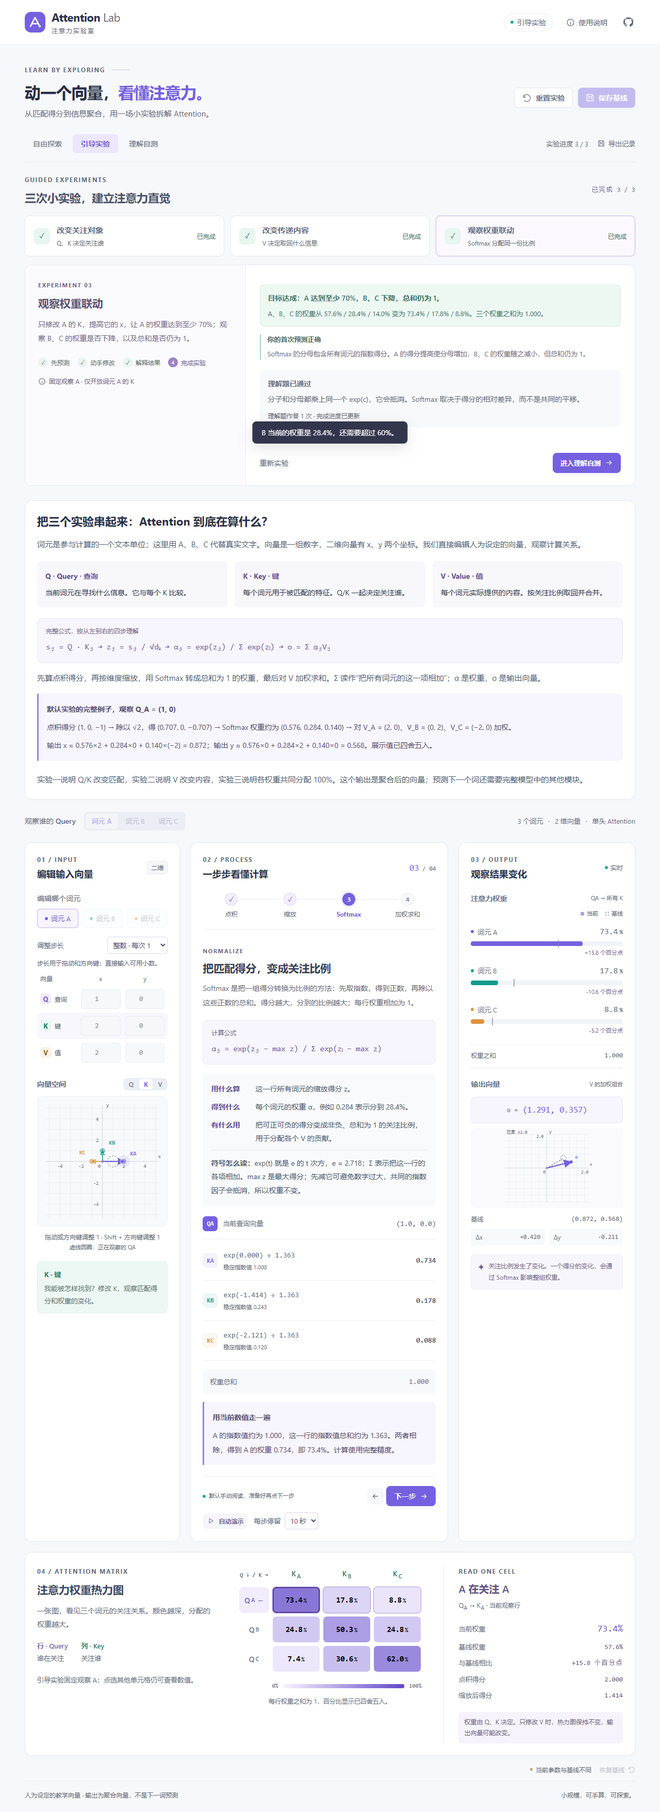
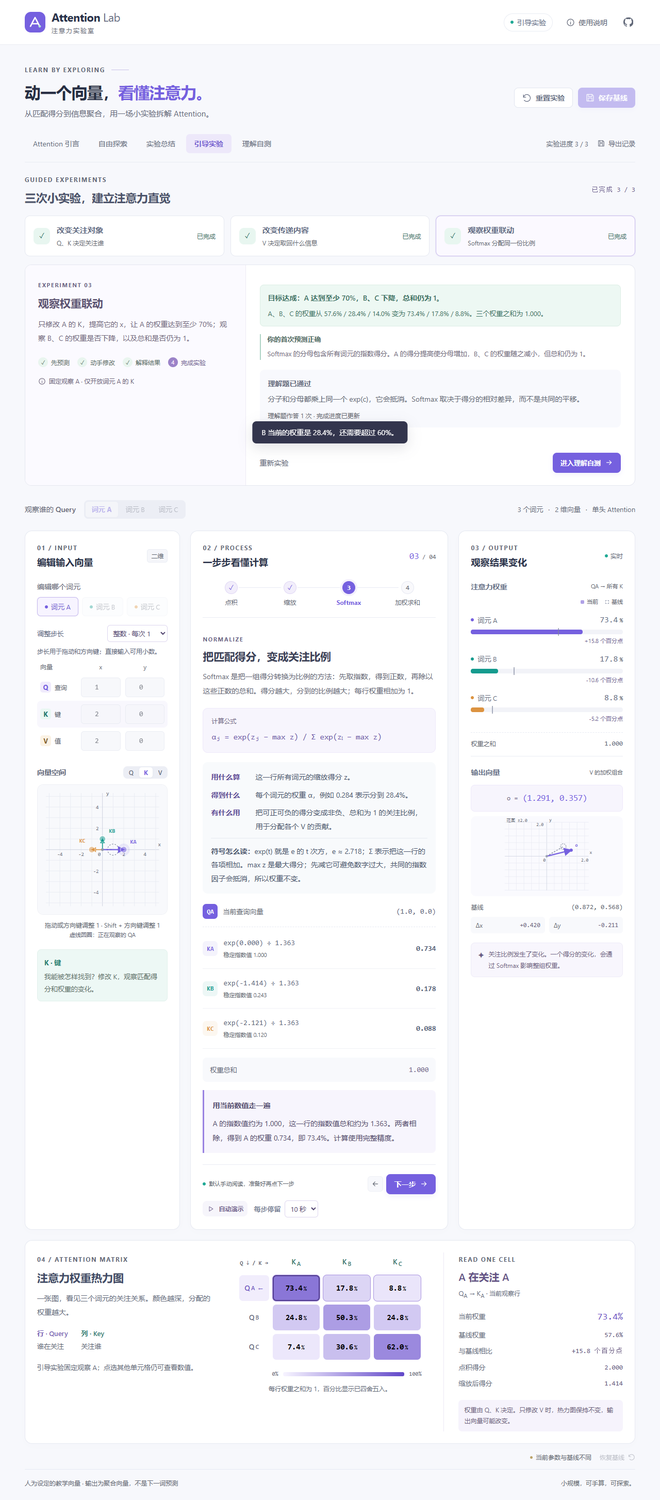
feat: add independent introduction and summary navigation

diff --git a/web/App.tsx b/web/App.tsx
@@ -28,10 +28,13 @@ export function App() {
   const [helpOpen, setHelpOpen] = useState(false);
   const [announcement, setAnnouncement] = useState('');
   const [mode, setMode] = useState<'free' | 'guided' | 'assessment'>('free');
+  const [readingView, setReadingView] = useState<'introduction' | 'summary' | null>(null);
+  const activeView = readingView ?? mode;
   const [session, setSession] = useState<LessonSession | null>(null);
   const freeSnapshot = useRef<LabState | null>(null);
   const editorRef = useRef<HTMLElement>(null);
   const guidedRef = useRef<HTMLDivElement>(null);
+  const navigationRef = useRef<HTMLDivElement>(null);
   const { progress, setProgress, storageAvailable } = useLearningProgress();
   const completed = completedLessons(progress);
   const result = useMemo(() => computeAttention(state.input), [state.input]);
@@ -44,10 +47,16 @@ export function App() {
   };
 
   useEffect(() => {
-    if (mode !== 'guided' || !session) return;
+    if (readingView !== null || mode !== 'guided' || !session) return;
     if (session.phase === 'experiment') locateEditor();
     else guidedRef.current?.scrollIntoView({ block: 'start' });
-  }, [mode, session?.phase, session?.lessonId]);
+  }, [mode, readingView, session?.phase, session?.lessonId]);
+
+  useEffect(() => {
+    if (readingView === null) return;
+    navigationRef.current?.scrollIntoView({ block: 'start' });
+    navigationRef.current?.querySelector<HTMLButtonElement>('button[aria-pressed="true"]')?.focus({ preventScroll: true });
+  }, [readingView]);
 
   useEffect(() => {
     if (!playing) return;
@@ -66,6 +75,7 @@ export function App() {
 
   const selectStep = (step: number) => { setPlaying(false); dispatch({ type: 'select-step', step }); };
   const startLesson = (id: LessonId) => {
+    setReadingView(null);
     if (mode === 'free') freeSnapshot.current = state;
     const lesson = getLesson(id);
     setPlaying(false);
@@ -74,10 +84,13 @@ export function App() {
     setMode('guided');
   };
   const enterGuided = () => {
+    setReadingView(null);
+    if (mode === 'guided' && session) return;
     if (mode === 'assessment' && session && state.editPolicy) { setMode('guided'); return; }
     startLesson(LESSONS.find((lesson) => !completed.includes(lesson.id))?.id ?? 'focus');
   };
   const enterFree = () => {
+    setReadingView(null);
     if (mode === 'free') return;
     setPlaying(false);
     dispatch({ type: 'resume-free', state: freeSnapshot.current ?? createLabState() });
@@ -85,10 +98,12 @@ export function App() {
     setMode('free');
   };
   const enterAssessment = () => {
+    setReadingView(null);
     if (mode === 'free') freeSnapshot.current = state;
     setPlaying(false);
     setMode('assessment');
   };
+  const enterReading = (view: 'introduction' | 'summary') => { setPlaying(false); setReadingView(view); };
   const downloadProgress = () => {
     const blob = new Blob([exportProgress(progress, new Date().toISOString())], { type: 'application/json;charset=utf-8' });
     const url = URL.createObjectURL(blob);
@@ -115,31 +130,33 @@ export function App() {
   return <>
     <header className="site-header"><div className="header-inner">
       <a className="brand" href="./" aria-label="Attention Lab 首页"><svg className="brand-mark" viewBox="0 0 40 40" aria-hidden="true"><rect width="40" height="40" rx="12" fill="#7560df" /><path d="m11 28 9-17 9 17M15 23h10" fill="none" stroke="white" strokeWidth="2.6" strokeLinecap="round" strokeLinejoin="round" /><circle cx="29" cy="28" r="2.4" fill="#b6ebd6" /></svg><span>Attention<span className="brand-light"> Lab</span><small>注意力实验室</small></span></a>
-      <div className="header-right"><span className="mode-pill"><span className="live-dot" />{mode === 'free' ? '自由探索' : mode === 'guided' ? '引导实验' : '理解自测'}</span><button className="text-button" onClick={() => setHelpOpen(true)}><Icon name="info" size={17} />使用说明</button><a className="github-link" href="https://github.com/ZeshanZheng/attention-lab" target="_blank" rel="noreferrer" aria-label="查看 GitHub 项目（新窗口）"><svg width="20" height="20" viewBox="0 0 24 24" fill="currentColor" aria-hidden="true"><path d="M12 .9a11.1 11.1 0 0 0-3.5 21.6c.6.1.8-.3.8-.5v-2.1c-3.4.7-4.1-1.4-4.1-1.4-.5-1.3-1.2-1.6-1.2-1.6-1.1-.8.1-.8.1-.8 1.2.1 1.8 1.2 1.8 1.2 1.1 1.8 2.8 1.3 3.5 1 .1-.8.4-1.3.8-1.6-2.7-.3-5.6-1.4-5.6-6.2 0-1.4.5-2.5 1.2-3.4-.1-.3-.5-1.6.2-3.3 0 0 1-.3 3.5 1.3a12 12 0 0 1 6.4 0c2.4-1.6 3.4-1.3 3.4-1.3.7 1.7.3 3 .2 3.3.8.9 1.3 2 1.3 3.4 0 4.8-2.9 5.9-5.6 6.2.4.4.8 1.1.8 2.3V22c0 .3.2.6.8.5A11.1 11.1 0 0 0 12 .9Z" /></svg></a></div>
+      <div className="header-right"><span className="mode-pill"><span className="live-dot" />{activeView === 'introduction' ? 'Attention 引言' : activeView === 'summary' ? '实验总结' : mode === 'free' ? '自由探索' : mode === 'guided' ? '引导实验' : '理解自测'}</span><button className="text-button" onClick={() => setHelpOpen(true)}><Icon name="info" size={17} />使用说明</button><a className="github-link" href="https://github.com/ZeshanZheng/attention-lab" target="_blank" rel="noreferrer" aria-label="查看 GitHub 项目（新窗口）"><svg width="20" height="20" viewBox="0 0 24 24" fill="currentColor" aria-hidden="true"><path d="M12 .9a11.1 11.1 0 0 0-3.5 21.6c.6.1.8-.3.8-.5v-2.1c-3.4.7-4.1-1.4-4.1-1.4-.5-1.3-1.2-1.6-1.2-1.6-1.1-.8.1-.8.1-.8 1.2.1 1.8 1.2 1.8 1.2 1.1 1.8 2.8 1.3 3.5 1 .1-.8.4-1.3.8-1.6-2.7-.3-5.6-1.4-5.6-6.2 0-1.4.5-2.5 1.2-3.4-.1-.3-.5-1.6.2-3.3 0 0 1-.3 3.5 1.3a12 12 0 0 1 6.4 0c2.4-1.6 3.4-1.3 3.4-1.3.7 1.7.3 3 .2 3.3.8.9 1.3 2 1.3 3.4 0 4.8-2.9 5.9-5.6 6.2.4.4.8 1.1.8 2.3V22c0 .3.2.6.8.5A11.1 11.1 0 0 0 12 .9Z" /></svg></a></div>
     </div></header>
     <main className="main-shell">
       <div className="page-intro"><div><div className="intro-label"><span className="eyebrow">LEARN BY EXPLORING</span><span className="label-line" /></div><h1>动一个向量，<span>看懂注意力。</span></h1><p>从匹配得分到信息聚合，用一场小实验拆解 Attention。</p></div>
-        {mode !== 'assessment' && <div className="intro-actions"><button className="button secondary" onClick={resetExperiment}><Icon name="reset" />重置实验</button><button className="button primary" disabled={mode === 'guided'} onClick={() => { dispatch({ type: 'save-baseline' }); setAnnouncement('已保存当前参数作为对比基线'); }}><Icon name="save" size={17} />保存基线</button></div>}
+        {readingView === null && mode !== 'assessment' && <div className="intro-actions"><button className="button secondary" onClick={resetExperiment}><Icon name="reset" />重置实验</button><button className="button primary" disabled={mode === 'guided'} onClick={() => { dispatch({ type: 'save-baseline' }); setAnnouncement('已保存当前参数作为对比基线'); }}><Icon name="save" size={17} />保存基线</button></div>}
       </div>
-      <LearningIntroduction />
-      <div className="learning-navigation"><div className="learning-tabs" role="group" aria-label="学习模式">
-        <button aria-pressed={mode === 'free'} className={mode === 'free' ? 'active' : ''} onClick={enterFree}>自由探索</button>
-        <button aria-pressed={mode === 'guided'} className={mode === 'guided' ? 'active' : ''} onClick={() => { if (mode !== 'guided') enterGuided(); }}>引导实验</button>
-        <button aria-pressed={mode === 'assessment'} className={mode === 'assessment' ? 'active' : ''} onClick={enterAssessment}>理解自测</button>
+      <div ref={navigationRef} className="learning-navigation"><div className="learning-tabs" role="group" aria-label="学习模式">
+        <button aria-pressed={activeView === 'introduction'} className={activeView === 'introduction' ? 'active' : ''} onClick={() => enterReading('introduction')}>Attention 引言</button>
+        <button aria-pressed={activeView === 'free'} className={activeView === 'free' ? 'active' : ''} onClick={enterFree}>自由探索</button>
+        <button aria-pressed={activeView === 'summary'} className={activeView === 'summary' ? 'active' : ''} onClick={() => enterReading('summary')}>实验总结</button>
+        <button aria-pressed={activeView === 'guided'} className={activeView === 'guided' ? 'active' : ''} onClick={enterGuided}>引导实验</button>
+        <button aria-pressed={activeView === 'assessment'} className={activeView === 'assessment' ? 'active' : ''} onClick={enterAssessment}>理解自测</button>
       </div><div className="progress-actions"><span data-testid="saved-progress">实验进度 {completed.length} / 3</span><button className="text-button" onClick={downloadProgress}><Icon name="save" size={14} />导出记录</button></div></div>
       {!storageAvailable && <p className="storage-notice" role="status">浏览器暂不能保存学习进度；本页仍可学习，离开前可导出记录。</p>}
-      {mode === 'free' && <div className="learning-entry"><span><b>从观察，到理解</b>三个引导实验，先预测，再用实际计算验证。</span><button className="text-button" onClick={enterGuided}>开始引导实验<Icon name="arrow" size={15} /></button></div>}
-      {mode === 'guided' && session && <div ref={guidedRef} className="guided-anchor"><GuidedLessons key={`${session.lessonId}-${session.startedAt}`} session={session} completed={completed} onStart={startLesson}
+      <div hidden={readingView !== 'introduction'}><LearningIntroduction /></div>
+      <div hidden={readingView !== 'summary'}><ConceptSummary /></div>
+      {readingView === null && mode === 'free' && <div className="learning-entry"><span><b>从观察，到理解</b>三个引导实验，先预测，再用实际计算验证。</span><button className="text-button" onClick={enterGuided}>开始引导实验<Icon name="arrow" size={15} /></button></div>}
+      {mode === 'guided' && session && <div hidden={readingView !== null} ref={guidedRef} className="guided-anchor"><GuidedLessons key={`${session.lessonId}-${session.startedAt}`} session={session} completed={completed} onStart={startLesson}
         onPredict={(choice) => setSession(choosePrediction(session, choice))}
         onBegin={() => { const next = beginExperiment(session); setSession(next); dispatch({ type: 'allow-lesson-editing', enabled: next.phase === 'experiment' }); }}
         onCheck={checkCurrentExperiment} onLocate={locateEditor}
         onAnswerChoice={(choice) => setSession(chooseComprehension(session, choice))}
         onAnswer={() => { const outcome = answerComprehension(session, new Date().toISOString()); setSession(outcome.session); if (outcome.record) setProgress((previous) => addLessonRecord(previous, outcome.record!)); }}
-        onAssessment={enterAssessment} /></div>}
-      {mode === 'guided' && session?.phase === 'complete' && (session.lessonId === 'competition' || completed.length === 3) && <ConceptSummary />}
-      {mode === 'assessment' && <Assessment progress={progress} onGuided={enterGuided} onExport={downloadProgress}
-        onSubmit={(record) => setProgress((previous) => addAssessmentRecord(previous, record))} />}
-      {mode !== 'assessment' && <>
+        onAssessment={enterAssessment} onSummary={() => enterReading('summary')} /></div>}
+      {mode === 'assessment' && <div hidden={readingView !== null}><Assessment progress={progress} onGuided={enterGuided} onExport={downloadProgress}
+        onSubmit={(record) => setProgress((previous) => addAssessmentRecord(previous, record))} /></div>}
+      {mode !== 'assessment' && <div hidden={readingView !== null}>
       {mode === 'guided' && session?.phase === 'experiment' && activeLesson && <div className="guided-taskbar" role="region" aria-label="当前实验目标"><div><b>现在修改：词元 {TOKEN_NAMES[activeLesson.token]} 的 {activeLesson.kind === 'keys' ? 'K' : 'V'}</b><p>{activeLesson.task}</p>{session.goalFeedback && <p role="status">{session.goalFeedback.feedback}</p>}</div><div className="taskbar-actions"><button className="button secondary" onClick={locateEditor}>定位输入框</button><button className="button primary" onClick={checkCurrentExperiment}>检查当前修改</button></div></div>}
       <div className="experiment-toolbar"><div className="observation-control"><span className="section-label">观察谁的 Query</span><div className="segmented" aria-label="观察 Query">
         {TOKEN_NAMES.map((name, index) => <button key={name} aria-label={`观察词元 ${name}`} aria-pressed={state.selectedQueryIndex === index} disabled={mode === 'guided'} className={state.selectedQueryIndex === index ? 'active' : ''} onClick={() => dispatch({ type: 'select-query', index })}>词元 {name}</button>)}
@@ -149,8 +166,7 @@ export function App() {
       <AttentionHeatmap current={result} baseline={baselineResult} query={state.selectedQueryIndex}
         onSelectQuery={mode === 'free' ? (index) => dispatch({ type: 'select-query', index }) : undefined} />
       <div className="baseline-footer"><span><i className={hasChanges ? 'changed-dot' : 'neutral-dot'} />{hasChanges ? '当前参数与基线不同' : '当前参数与基线相同'}</span><button className="text-button" disabled={!hasChanges || mode === 'guided' && session?.phase !== 'experiment'} onClick={() => { setPlaying(false); dispatch({ type: 'restore-baseline' }); setAnnouncement('已恢复保存的基线参数'); }}>恢复基线<Icon name="reset" size={14} /></button></div>
-      {mode === 'free' && <ConceptSummary />}
-      </>}
+      </div>}
       <footer className="page-footer"><p>人为设定的教学向量 · 输出为聚合向量，不是下一词预测</p><span>小规模，可手算，可探索。</span></footer>
     </main>
     <div className={`toast ${announcement ? 'visible' : ''}`} role="status" aria-live="polite">{announcement}</div>

diff --git a/tests/browser/navigation.spec.ts b/tests/browser/navigation.spec.ts
@@ -1,0 +1,74 @@
+import { expect, test } from '@playwright/test';
+
+test('reading pages have independent navigation and preserve free vectors, baseline and step', async ({ page }) => {
+  await page.goto('/');
+  const modes = page.getByRole('group', { name: '学习模式' });
+  await expect(modes.getByRole('button')).toHaveText(['Attention 引言', '自由探索', '实验总结', '引导实验', '理解自测']);
+  await expect(page.getByRole('heading', { name: '先认识 Attention：它为什么重要？' })).toHaveCount(0);
+  await expect(page.getByRole('heading', { name: '把三个实验串起来：Attention 到底在算什么？' })).toHaveCount(0);
+  await page.getByRole('button', { name: '编辑词元 B', exact: true }).click();
+  await page.getByRole('spinbutton', { name: '词元 B 的 V y', exact: true }).fill('4');
+  await page.getByRole('button', { name: '保存基线', exact: true }).click();
+  await page.getByRole('spinbutton', { name: '词元 B 的 V y', exact: true }).fill('3');
+  await page.getByRole('button', { name: '3 Softmax', exact: true }).click();
+  await modes.getByRole('button', { name: 'Attention 引言', exact: true }).click();
+  await expect(modes.getByRole('button', { pressed: true })).toHaveText('Attention 引言');
+  await expect(modes.getByRole('button', { pressed: true })).toBeFocused();
+  await expect(page.getByRole('heading', { name: '先认识 Attention：它为什么重要？' })).toBeVisible();
+  await expect(page.getByRole('spinbutton')).toHaveCount(0);
+  await expect(page.getByRole('button', { name: '重置实验' })).toHaveCount(0);
+  await page.locator('.introduction-details summary').click();
+  await modes.getByRole('button', { name: '实验总结', exact: true }).click();
+  await expect(modes.getByRole('button', { pressed: true })).toHaveText('实验总结');
+  await expect(page.getByRole('heading', { name: '把三个实验串起来：Attention 到底在算什么？' })).toBeVisible();
+  await expect(page.getByRole('heading', { name: '先认识 Attention：它为什么重要？' })).toHaveCount(0);
+  await modes.getByRole('button', { name: '自由探索', exact: true }).click();
+  await expect(page.getByRole('spinbutton', { name: '词元 B 的 V y', exact: true })).toHaveValue('3');
+  await expect(page.getByTestId('baseline-output')).toHaveText('(0.872, 1.136)');
+  await expect(page.getByRole('button', { name: '3 Softmax', exact: true })).toHaveAttribute('aria-pressed', 'true');
+  await modes.getByRole('button', { name: 'Attention 引言', exact: true }).click();
+  await expect(page.locator('.introduction-details')).toHaveAttribute('open', '');
+  await page.screenshot({ path: '.tools/preview-navigation-introduction.png', fullPage: true });
+});
+
+test('reading pages preserve an in-progress guided lesson, hints and locked parameters', async ({ page }) => {
+  await page.goto('/');
+  await page.getByRole('button', { name: '引导实验', exact: true }).click();
+  await page.getByRole('radio', { name: 'B 的权重上升，A 和 C 的权重下降', exact: true }).check();
+  await page.getByRole('button', { name: '记录预测，开始实验', exact: true }).click();
+  await page.getByRole('spinbutton', { name: '词元 B 的 K x', exact: true }).fill('2');
+  await page.getByRole('button', { name: '给我一点提示' }).click();
+  await expect(page.locator('.lesson-hint')).toBeVisible();
+  await page.getByRole('button', { name: '实验总结', exact: true }).click();
+  await expect(page.getByRole('region', { name: '当前实验目标' })).toHaveCount(0);
+  await page.getByRole('button', { name: 'Attention 引言', exact: true }).click();
+  await page.getByRole('button', { name: '引导实验', exact: true }).click();
+  const key = page.getByRole('spinbutton', { name: '词元 B 的 K x', exact: true });
+  await expect(key).toHaveValue('2');
+  await expect(key).toBeFocused();
+  await expect(page.getByRole('spinbutton', { name: '词元 B 的 V y', exact: true })).toBeDisabled();
+  await expect(page.locator('.lesson-hint')).toBeVisible();
+  await expect(page.getByRole('button', { name: '记录预测，开始实验' })).toHaveCount(0);
+  await page.getByRole('button', { name: '检查当前修改' }).click();
+  await expect(page.getByRole('button', { name: '提交理解题' })).toBeVisible();
+});
+
+test('mobile reading navigation preserves unfinished quiz questions and selected answers', async ({ page }) => {
+  await page.setViewportSize({ width: 390, height: 844 });
+  await page.goto('/');
+  await page.getByRole('button', { name: '理解自测', exact: true }).click();
+  const cards = page.getByTestId('assessment-question');
+  const ids = await cards.evaluateAll((nodes) => nodes.map((node) => node.getAttribute('data-question-id')));
+  await cards.first().getByRole('radio').first().check();
+  await page.getByRole('button', { name: 'Attention 引言', exact: true }).click();
+  await expect(page.getByRole('radio')).toHaveCount(0);
+  await page.getByRole('button', { name: '实验总结', exact: true }).click();
+  expect(await page.evaluate(() => document.documentElement.scrollWidth > innerWidth)).toBe(false);
+  await page.screenshot({ path: '.tools/preview-navigation-summary-mobile.png', fullPage: true });
+  await page.getByRole('button', { name: '理解自测', exact: true }).click();
+  expect(await cards.evaluateAll((nodes) => nodes.map((node) => node.getAttribute('data-question-id')))).toEqual(ids);
+  await expect(cards.first().getByRole('radio').first()).toBeChecked();
+  await expect(page.getByRole('button', { name: '提交自测' })).toBeDisabled();
+  expect(await page.getByRole('group', { name: '学习模式' }).getByRole('button', { pressed: true }).count()).toBe(1);
+  expect(await page.evaluate(() => document.documentElement.scrollWidth > innerWidth)).toBe(false);
+});

diff --git a/web/components/GuidedLessons.tsx b/web/components/GuidedLessons.tsx
@@ -5,10 +5,11 @@ import type { LessonSession } from '../learning/session.ts';
 import { QuestionChoices } from './QuestionChoices.tsx';
 import { Icon } from './Icon.tsx';
 
-export function GuidedLessons({ session, completed, onStart, onPredict, onBegin, onCheck, onLocate, onAnswerChoice, onAnswer, onAssessment }: {
+export function GuidedLessons({ session, completed, onStart, onPredict, onBegin, onCheck, onLocate, onAnswerChoice, onAnswer, onAssessment, onSummary }: {
   session: LessonSession; completed: readonly LessonId[];
   onStart: (id: LessonId) => void; onPredict: (choice: number) => void; onBegin: () => void; onCheck: () => void;
   onLocate: () => void;
+  onSummary: () => void;
   onAnswerChoice: (choice: number) => void; onAnswer: () => void; onAssessment: () => void;
 }) {
   const [hintLevel, setHintLevel] = useState(0);
@@ -49,7 +50,7 @@ export function GuidedLessons({ session, completed, onStart, onPredict, onBegin,
             {session.comprehensionCorrect === false && <div className="learning-feedback pending" role="status"><b>再想一想</b><p>{lesson.comprehension.retryHint}首次回答会保留在学习记录中。</p></div>}
             <div className="lesson-action-row"><span>解释清楚，才算完成这次实验。</span><button className="button primary" disabled={session.comprehensionChoice === null} onClick={onAnswer}>提交理解题</button></div></>}
           {session.phase === 'complete' && <><div className="completion-explanation"><b>理解题已通过</b><p>{lesson.comprehension.explanation}</p><small>理解题作答 {session.comprehensionAnswers.length} 次 · 完成进度已更新</small></div>
-            {!nextLesson && <a className="text-button" href="#concept-summary-title">先看概念与公式总结 ↓</a>}
+            {!nextLesson && <button className="text-button" onClick={onSummary}>查看实验总结</button>}
             <div className="lesson-action-row"><button className="text-button" onClick={() => { setHintLevel(0); onStart(lesson.id); }}>重新实验</button><button className="button primary" onClick={() => { setHintLevel(0); if (nextLesson) onStart(nextLesson.id); else onAssessment(); }}>{nextLesson ? '下一个实验' : '进入理解自测'}<Icon name="arrow" size={16} /></button></div></>}
         </>}
       </div>

diff --git a/web/components/HelpDialog.tsx b/web/components/HelpDialog.tsx
@@ -8,6 +8,7 @@ export function HelpDialog({ onClose }: { onClose: () => void }) {
     onClick={(event) => { if (event.target === event.currentTarget) onClose(); }}>
     <div className="dialog-heading"><div><span className="eyebrow">QUICK GUIDE</span><h2 id="help-title">欢迎来到注意力实验室</h2></div><button className="icon-button" onClick={onClose} aria-label="关闭说明"><Icon name="close" /></button></div>
     <p>自由探索可以修改所有向量；引导实验会限定一个变量，先预测再验证。</p>
+    <p>页面顶部的五个按钮分别打开 Attention 引言、自由探索、实验总结、引导实验和理解自测。引言介绍背景，总结整理 Q/K/V、完整公式与例子；阅读后回到原来的实验或自测，会保留本页中的操作和答案。</p>
     <ol className="guide-list">
       <li><b>选择观察对象</b><span>页面上方选择 A、B 或 C，观察它的 Query 如何关注其他词元。</span></li>
       <li><b>改变一个向量</b><span>选中编辑词元，输入数字，或拖动 Q/K/V 的圆点。默认拖动和方向键按整数调整，可切换为 0.1 步长；直接输入可用小数。向量各坐标范围为 −5 到 5。</span></li>

diff --git a/web/learning.css b/web/learning.css
@@ -1,4 +1,5 @@
 .learning-navigation {
+  scroll-margin-top: 24px;
   display: flex;
   align-items: center;
   justify-content: space-between;
@@ -7,7 +8,7 @@
   margin-bottom: 20px;
   border-bottom: 1px solid var(--line);
 }
-.learning-tabs { display: flex; gap: 5px; }
+.learning-tabs { display: flex; gap: 5px; flex-wrap: wrap; }
 .learning-tabs button {
   padding: 8px 16px;
   border-radius: 7px;
@@ -140,7 +141,7 @@
 @media (max-width: 700px) {
   .learning-navigation { align-items: flex-start; flex-direction: column; gap: 12px; }
   .learning-tabs { width: 100%; }
-  .learning-tabs button { flex: 1; padding: 8px 10px; font-size: 13px; }
+  .learning-tabs button { flex: 0 0 auto; padding: 8px 10px; font-size: 13px; }
   .progress-actions { width: 100%; justify-content: space-between; font-size: 12px; }
   .learning-entry { align-items: flex-start; gap: 12px; padding: 12px 14px; }
   .learning-entry b { display: block; margin-bottom: 4px; }

diff --git a/tests/browser/learning.spec.ts b/tests/browser/learning.spec.ts
@@ -71,8 +71,10 @@ test('all three guided lessons enforce the learning flow, retain first mistakes,
   await page.getByRole('button', { name: '检查实验结果', exact: true }).click();
   await answerUnderstanding(page, 'competition', 1);
   await expect(page.getByTestId('lesson-progress')).toHaveText('已完成 3 / 3');
-  await expect(page.getByRole('link', { name: '先看概念与公式总结 ↓' })).toBeVisible();
+  await page.getByRole('button', { name: '查看实验总结', exact: true }).click();
   await expect(page.getByRole('heading', { name: '把三个实验串起来：Attention 到底在算什么？' })).toBeVisible();
+  await page.getByRole('button', { name: '引导实验', exact: true }).click();
+  await expect(page.getByTestId('lesson-progress')).toHaveText('已完成 3 / 3');
   await page.screenshot({ path: '.tools/preview-guided.png', fullPage: true });
 
   const downloadPromise = page.waitForEvent('download');

diff --git a/web/components/ConceptSummary.tsx b/web/components/ConceptSummary.tsx
@@ -1,5 +1,6 @@
 export function ConceptSummary() {
   return <section className="card concept-summary" aria-labelledby="concept-summary-title">
+    <span className="eyebrow">实验总结 · 概念、公式与计算例子</span>
     <h2 id="concept-summary-title">把三个实验串起来：Attention 到底在算什么？</h2>
     <p>词元是参与计算的一个文本单位；这里用 A、B、C 代替真实文字。向量是一组数字，二维向量有 x、y 两个坐标。我们直接编辑人为设定的向量，观察计算关系。</p>
     <dl className="concept-definitions"><div><dt>Q · Query · 查询</dt><dd>当前词元在寻找什么信息。它与每个 K 比较。</dd></div><div><dt>K · Key · 键</dt><dd>每个词元用于被匹配的特征。Q/K 一起决定关注谁。</dd></div><div><dt>V · Value · 值</dt><dd>每个词元实际提供的内容。按关注比例取回并合并。</dd></div></dl>

diff --git a/web/components/LearningIntroduction.tsx b/web/components/LearningIntroduction.tsx
@@ -18,6 +18,6 @@ export function LearningIntroduction() {
         <p className="introduction-sources">背景出处，可选阅读：<a href="https://arxiv.org/abs/1409.0473" target="_blank" rel="noreferrer">早期机器翻译注意力研究（2014）</a><span> · </span><a href="https://arxiv.org/html/1706.03762v7" target="_blank" rel="noreferrer">Transformer 原论文（2017）</a>。</p>
       </div>
     </details>
-    <p className="introduction-route"><b>建议顺序：</b>先用“自由探索”观察变化，再做“引导实验”验证预测，最后用“理解自测”检查掌握情况。</p>
+    <p className="introduction-route"><b>建议顺序：</b>先用“自由探索”观察变化，对照“实验总结”理解公式，再做“引导实验”验证预测，最后用“理解自测”检查掌握情况。</p>
   </section>;
 }

diff --git a/web/beginner.css b/web/beginner.css
@@ -22,7 +22,7 @@
 .guided-taskbar p { font-size: 13px; margin-top: 5px; line-height: 1.7; }
 .taskbar-actions { display: flex; flex-shrink: 0; gap: 8px; }
 .concept-summary { margin: 24px 0; }
-.concept-summary h2 { font-size: 22px; }
+.concept-summary h2 { font-size: 22px; margin-top: 8px; }
 #concept-summary-title { scroll-margin-top: 24px; }
 .concept-summary > p { font-size: 15px; color: #4d5971; line-height: 1.95; margin-top: 14px; }
 .concept-definitions { display: grid; grid-template-columns: repeat(3, minmax(0, 1fr)); gap: 14px; margin-top: 18px; }

diff --git a/tests/browser/beginner.spec.ts b/tests/browser/beginner.spec.ts
@@ -14,6 +14,7 @@ test('each calculation step teaches its purpose and example follows edited input
   await page.getByRole('button', { name: '4 加权求和', exact: true }).click();
   await expect(page.getByTestId('step-guide')).toContainText('不会改变前面的权重');
   await expect(page.getByTestId('beginner-example')).toContainText('输出 x：');
+  await page.getByRole('button', { name: '实验总结', exact: true }).click();
   await page.locator('.concept-summary').screenshot({ path: '.tools/preview-concept-summary.png' });
 });
 

diff --git a/docs/development/10-reading-navigation.md b/docs/development/10-reading-navigation.md
@@ -1,0 +1,21 @@
+# 第十次迭代 引言和实验总结独立导航
+
+日期：2026-10-08（Asia/Shanghai）。用户明确要求把 Attention 引言做成三个原有按钮之前的独立按钮，并把 Q/K/V、公式和默认计算例子的总结放到自由探索之后的另一个按钮中。
+
+## 页面组织
+
+顶部按钮顺序为 Attention 引言、自由探索、实验总结、引导实验、理解自测。第二块内容主要是概念与计算总结，因此采用“实验总结”名称。引言和总结各有独立页面，不再常驻于自由探索的前后；默认仍打开自由探索。
+
+阅读页面隐藏实验编辑、检查与基线按钮，顶部标识和选中按钮同步更新。查看阅读内容时暂停自动演示；返回实验后保留向量、基线、步骤、引导阶段和已展开提示，返回自测后保留题目和未提交的答案。页面内的阅读展开状态也保留；刷新页面仍遵循既有的存储规则。
+
+阅读内容与操作状态分开保存，阅读时使用 hidden 隐藏已有操作面板，保留组件状态，也避免隐藏的输入框和题目进入键盘与辅助技术的操作范围。打开阅读页面会回到导航并聚焦当前按钮；从最后一个实验完成区点击“查看实验总结”也可打开总结，回到引导后不重新开始实验。
+
+手机按钮自动换行，保持可读字号，并显示全部五个入口。
+
+## 验证
+
+严格类型检查、35 项数学/学习状态测试、构建与默认演示通过。27 项浏览器验收全部通过，新增三项分别验证自由探索、引导实验和自测在阅读往返之后的状态保留。
+
+另在 1920、1280、900、390 像素宽度验证五个按钮、独立内容显示、展开说明、自由参数和未提交自测答案保留，均无横向溢出或页面运行时错误。
+
+参见[桌面引言页面](../images/reading-navigation.png)、[手机引言页面](../images/reading-navigation-mobile.png)和[独立实验总结](../images/reading-summary.png)。
